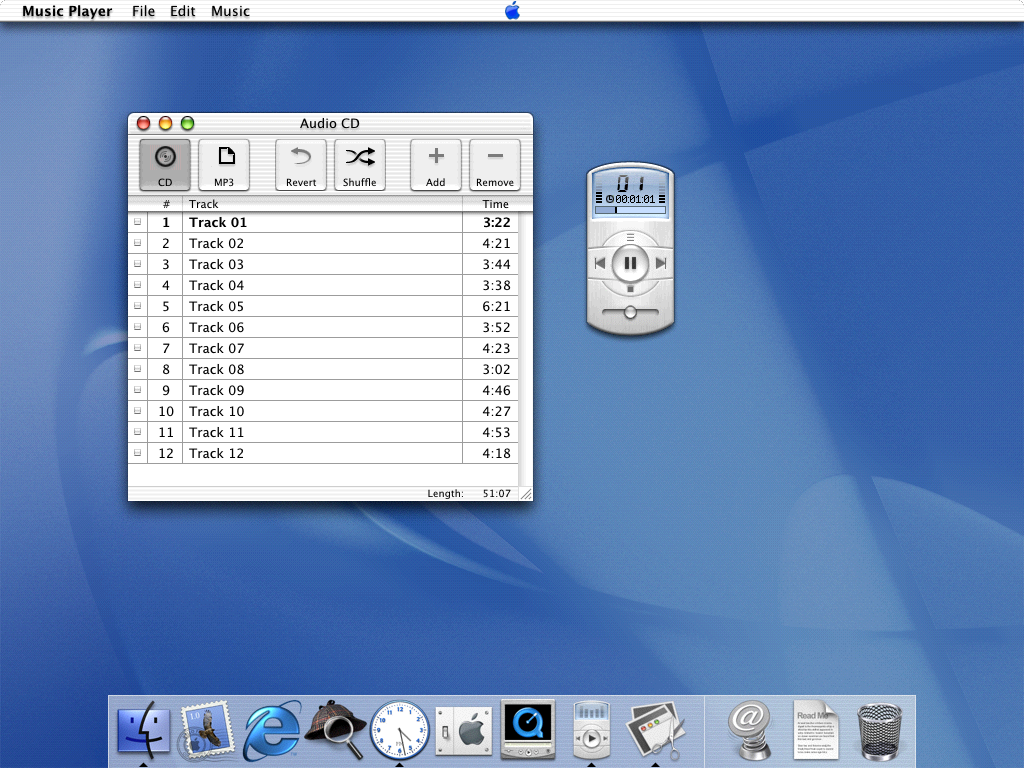
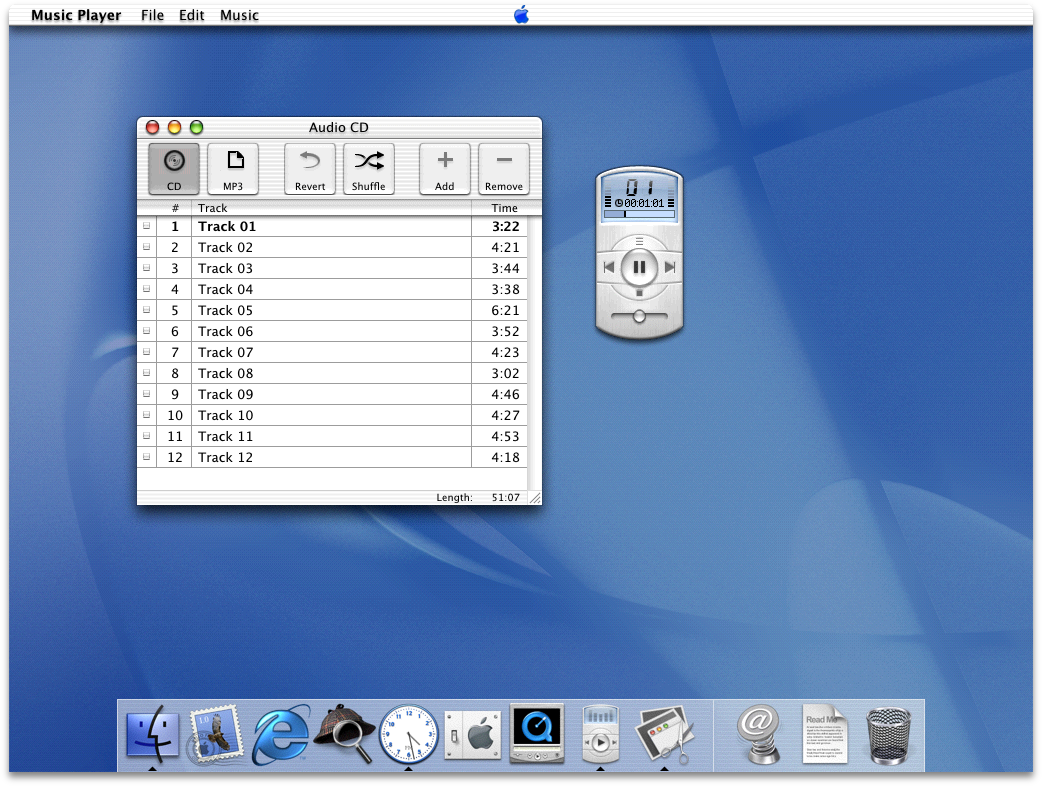
Trying additional images

diff --git a/musicremote/index.html b/musicremote/index.html
@@ -113,12 +113,12 @@
                             src="images/Cinema.png" 
                             style="max-width: 100%; display: block;" 
                             alt="Mac OS X Public Beta with Music Player running in the foreground.">
-                        <!-- 
+                        
                         <img srcset="images/macosx_musicremote.png" 
-                            src="musicremote/images/history_header_text.png" 
+                            src="images/macosx_musicremote.png" 
                             style="max-width: 100%; display: block;" 
                             alt="Mac OS X Public Beta with Music Player running in the foreground.">
-                        -->
+                        
                     </div>
                 </div>
             </div>
